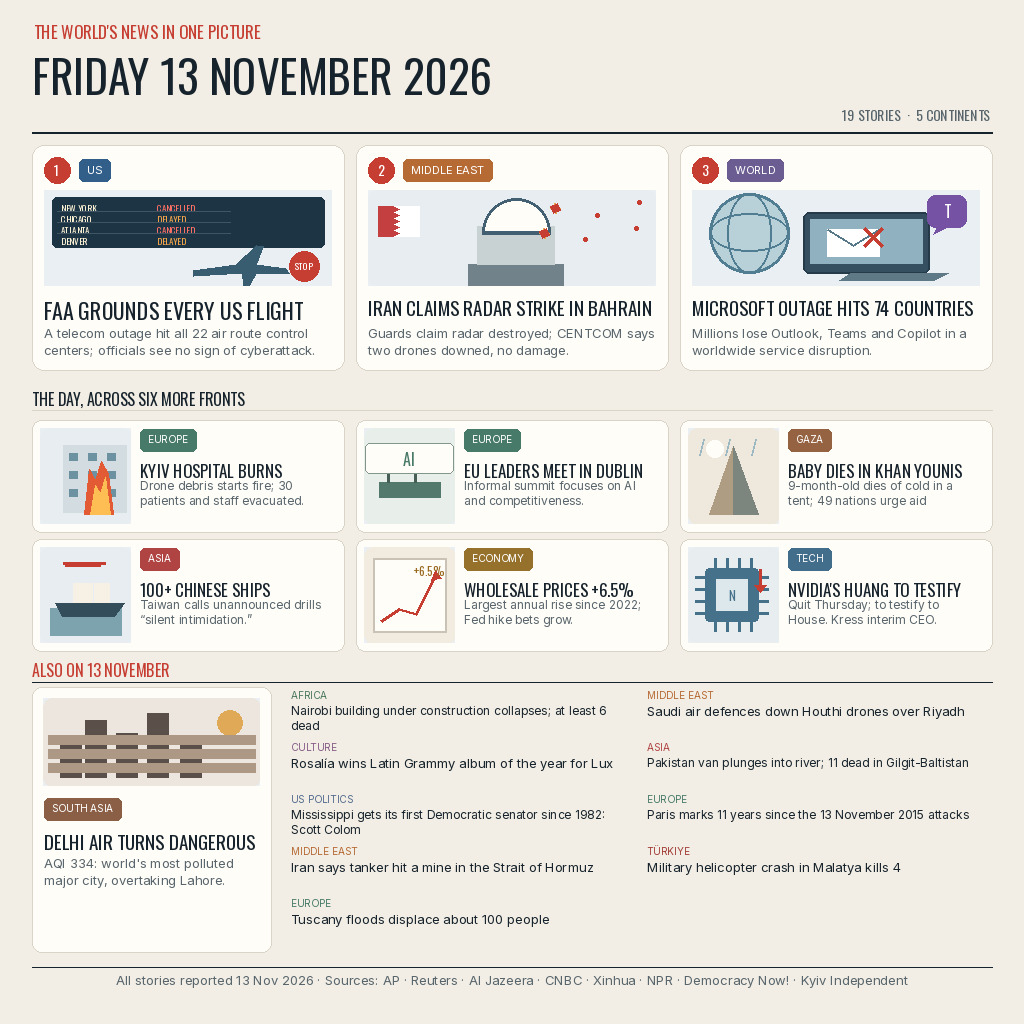
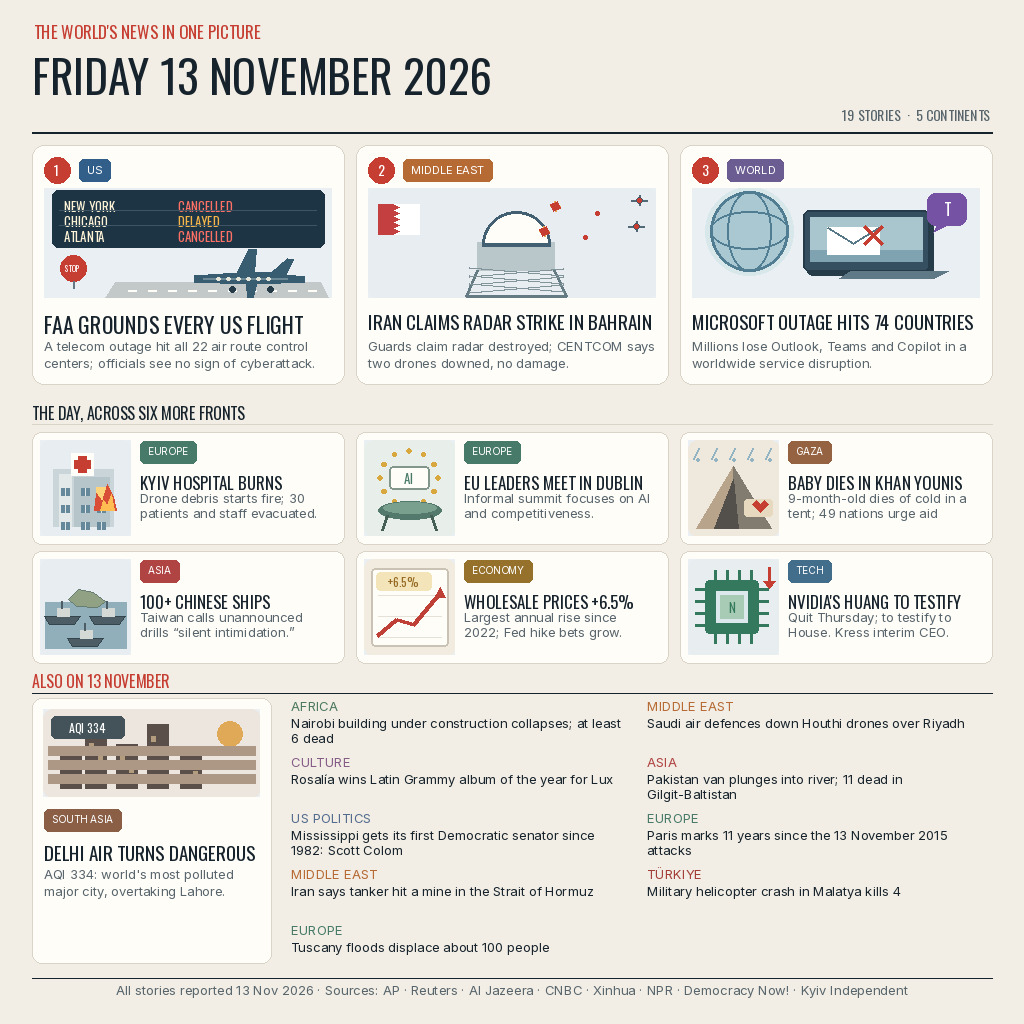
Richer illustrations and cleaner brief

diff --git a/draw_news.py b/draw_news.py
@@ -88,20 +88,31 @@ def _scene_art(kind, x, y, w, h):
     d.rounded_rectangle((x, y, x + w, y + h), radius=9, fill=palettes[kind])
     cx, cy = x + w // 2, y + h // 2
     if kind == "plane":
-        # Airport board with four named routes; parked aircraft and STOP marker.
-        d.rounded_rectangle((x+8,y+7,x+w-8,y+57),radius=5,fill="#1d3444")
+        # Three large airport-board rows over a detailed parked airliner and runway.
+        d.rounded_rectangle((x+8,y+2,x+w-8,y+59),radius=6,fill="#1d3444")
         rows=(("NEW YORK","CANCELLED"),("CHICAGO","DELAYED"),
-              ("ATLANTA","CANCELLED"),("DENVER","DELAYED"))
+              ("ATLANTA","CANCELLED"))
         for i,(city,status) in enumerate(rows):
-            yy=y+11+i*11
-            txt(city,x+17,yy,9,"#fff4d7",True)
-            txt(status,x+113,yy,9,"#f4a54a" if status=="DELAYED" else "#ff7165",True)
-            if i<3:
-                d.line((x+13,yy+10,x+186,yy+10),fill="#405564",width=1)
-        px=x+w-91; py=y+75
-        d.polygon([(px-48,py+5),(px-5,py-1),(px+15,py-20),(px+22,py-19),(px+15,py-1),(px+44,py+3),(px+48,py+8),(px+15,py+8),(px+8,py+20),(px+2,py+20),(px+1,py+8),(px-48,py+11)],fill="#385c70")
-        d.ellipse((x+w-43,y+h-35,x+w-13,y+h-5),fill=RED)
-        txt("STOP",x+w-28,y+h-20,9,"white",True,"mm")
+            yy=y+8+i*15
+            txt(city,x+20,yy,13,"#fff4d7",True)
+            txt(status,x+134,yy,13,"#f4b54a" if status=="DELAYED" else "#ff7165",True)
+            if i<len(rows)-1:
+                d.line((x+15,yy+14,x+w-16,yy+14),fill="#405564",width=1)
+        # Runway with dashed centreline; broad swept wings, fuselage, tail and windows.
+        ry=y+h-12
+        d.polygon([(x+71,ry-4),(x+w-12,ry-4),(x+w-3,ry+13),(x+60,ry+13)],fill="#c2c9c8")
+        for dash in range(x+84,x+w-18,20):
+            d.line((dash,ry+4,dash+8,ry+4),fill="#fffdf8",width=2)
+        px=x+w-87; py=y+h-19
+        d.polygon([(px-51,py-4),(px-8,py-7),(px+3,py-30),(px+11,py-30),(px+9,py-7),(px+26,py-7),(px+42,py-21),(px+48,py-20),(px+41,py-5),(px+59,py-3),(px+59,py+3),(px+11,py+5),(px+8,py+18),(px+2,py+18),(px+1,py+5),(px-51,py+3)],fill="#385c70")
+        d.line((px-42,py-1,px+42,py-1),fill="#6e8996",width=2)
+        for wx in range(px-29,px+27,10):
+            d.ellipse((wx,py-2,wx+4,py+1),fill="#e6e5d9")
+        d.ellipse((px-16,py+7,px-10,py+13),fill="#263b48")
+        d.ellipse((px+22,py+7,px+28,py+13),fill="#263b48")
+        d.ellipse((x+16,y+h-43,x+42,y+h-17),fill=RED)
+        d.line((x+29,y+h-17,x+29,ry+2),fill="#667883",width=2)
+        txt("STOP",x+29,y+h-30,8,"white",True,"mm")
     elif kind == "radar":
         # Bahrain flag, raised radar dome, and two intercepted drone paths.
         fx,fy=x+10,y+16
@@ -109,13 +120,23 @@ def _scene_art(kind, x, y, w, h):
         d.rectangle((fx+15,fy,fx+41,fy+30),fill="white")
         for yy in range(fy,fy+30,6):
             d.polygon([(fx+15,yy),(fx+21,yy+3),(fx+15,yy+6)],fill="#c43f40")
-        bx,by=cx+4,y+h-17
-        d.rectangle((bx-48,by-5,bx+47,by+16),fill="#72828a")
-        d.rectangle((bx-39,by-43,bx+38,by-5),fill="#c9d2d3")
-        d.pieslice((bx-34,by-71,bx+34,by-2),180,360,fill="#fffdf8",outline="#426071",width=3)
+        bx,by=cx+4,y+h-23
+        # Elevated lattice tower and crisp white radome.
+        d.rectangle((bx-39,by-33,bx+38,by-5),fill="#bac7ca")
+        d.pieslice((bx-34,by-64,bx+34,by+3),180,360,fill="#fffdf8",outline="#426071",width=3)
+        d.line((bx-39,by-5,bx-50,by+21),fill="#657b84",width=3)
+        d.line((bx+38,by-5,bx+50,by+21),fill="#657b84",width=3)
+        d.line((bx-50,by+21,bx+50,by+21),fill="#657b84",width=3)
+        for yy in (by+1,by+9,by+17):
+            d.line((bx-47,yy,bx+47,yy-8),fill="#81949a",width=2)
+            d.line((bx+47,yy,bx-47,yy-8),fill="#81949a",width=2)
         # Dotted trails terminate at small burst marks above the radar.
         for points in (((x+w-17,y+12),(x+w-59,y+25),(x+w-101,y+18)),
                        ((x+w-20,y+38),(x+w-71,y+49),(x+w-112,y+43))):
+            dx0,dy0=points[0]
+            d.line((dx0-8,dy0,dx0+8,dy0),fill="#526977",width=2)
+            d.line((dx0,dy0-5,dx0,dy0+5),fill="#526977",width=2)
+            d.ellipse((dx0-3,dy0-3,dx0+3,dy0+3),fill="#405968")
             for ax,ay in points:
                 d.ellipse((ax-2,ay-2,ax+2,ay+2),fill=RED)
             ex,ey=points[-1]
@@ -125,14 +146,17 @@ def _scene_art(kind, x, y, w, h):
     elif kind == "cloud":
         # Globe behind a laptop; screen shows mail failure and a Teams-like bubble.
         gx,gy=x+57,y+42
-        d.ellipse((gx-40,gy-39,gx+40,gy+41),fill="#b8d0d7",outline="#507d91",width=3)
+        d.ellipse((gx-44,gy-43,gx+44,gy+45),fill="#d8e7e9")
+        d.ellipse((gx-39,gy-39,gx+39,gy+41),fill="#a9c8d1",outline="#507d91",width=3)
         d.arc((gx-22,gy-39,gx+22,gy+41),90,270,fill="#507d91",width=2)
         d.arc((gx-22,gy-39,gx+22,gy+41),270,90,fill="#507d91",width=2)
         d.arc((gx-39,gy-19,gx+39,gy+19),180,360,fill="#507d91",width=2)
         d.arc((gx-39,gy-19,gx+39,gy+19),0,180,fill="#507d91",width=2)
         lx,ly=x+111,y+22
+        d.rounded_rectangle((lx+3,ly+4,lx+130,ly+65),radius=7,fill="#263c49")
         d.rounded_rectangle((lx,ly,lx+126,ly+61),radius=6,fill="#354f60",outline="#253b49",width=2)
-        d.rectangle((lx+7,ly+7,lx+119,ly+51),fill="#90b2c0")
+        d.rectangle((lx+7,ly+7,lx+119,ly+51),fill="#a9c6cf")
+        d.rectangle((lx+7,ly+40,lx+119,ly+51),fill="#7fa3b1")
         d.rectangle((lx+24,ly+17,lx+76,ly+44),fill="white")
         d.line((lx+24,ly+17,lx+50,ly+33,lx+76,ly+17),fill="#567788",width=2)
         d.line((lx+61,ly+16,lx+79,ly+34),fill=RED,width=5)
@@ -142,62 +166,89 @@ def _scene_art(kind, x, y, w, h):
         d.polygon([(x+w-42,y+35),(x+w-47,y+44),(x+w-31,y+36)],fill="#7652a5")
         txt("T",x+w-33,y+20,16,"white",True,"mm")
     elif kind == "fire":
-        # Hospital facade with orange fire glow.
-        bx=x+16
-        d.rectangle((bx+7,y+17,bx+70,y+h-12),fill="#d3dce0")
-        for yy in (y+25,y+43,y+61):
-            for xx in (bx+13,bx+32,bx+51):
-                d.rectangle((xx,yy,xx+8,yy+7),fill="#6c91a1")
-        d.rectangle((bx+31,y+56,bx+43,y+77),fill="#f5f0e5")
-        # Flame cluster is intentionally kept inside the right half of the tile.
-        fx=x+w-28
-        d.polygon([(fx-19,y+h-10),(fx-14,y+41),(fx-8,y+52),(fx-2,y+33),(fx+5,y+45),(fx+10,y+h-10)],fill="#e35b35")
-        d.polygon([(fx-13,y+h-10),(fx-8,y+57),(fx-3,y+65),(fx+2,y+49),(fx+7,y+h-10)],fill="#ffbe54")
+        # Three-tone hospital block, red cross, and fire through an upper window.
+        d.rectangle((x+13,y+29,x+73,y+h-10),fill="#cad5d9")
+        d.rectangle((x+19,y+34,x+31,y+h-10),fill="#e3e9e8")
+        d.rectangle((x+34,y+37,x+69,y+h-10),fill="#b6c5ca")
+        for yy in (y+48,y+65,y+82):
+            for xx in (x+21,x+41,x+57):
+                d.rectangle((xx,yy,xx+8,yy+7),fill="#65889a")
+                d.line((xx+4,yy,xx+4,yy+7),fill="#dce6e7",width=1)
+        d.rectangle((x+31,y+13,x+53,y+35),fill="#fffdf8")
+        d.rectangle((x+38,y+16,x+46,y+32),fill=RED)
+        d.rectangle((x+34,y+20,x+50,y+28),fill=RED)
+        # A bright window and a contained pair of flame tongues.
+        d.rectangle((x+56,y+47,x+69,y+62),fill="#ffd37a")
+        fx=x+67
+        d.polygon([(fx-13,y+70),(fx-11,y+53),(fx-5,y+61),(fx,y+44),(fx+6,y+56),(fx+9,y+70)],fill="#d94e36")
+        d.polygon([(fx-7,y+70),(fx-4,y+60),(fx,y+65),(fx+4,y+54),(fx+7,y+70)],fill="#ffbd52")
     elif kind == "summit":
-        d.rectangle((x+15,y+54,x+w-15,y+69),fill="#53796c")
-        for xx in range(x+24,x+w-20,27):
-            d.line((xx,y+35,xx,y+54),fill="#455e56",width=3)
-            d.ellipse((xx-7,y+23,xx+7,y+37),fill="#455e56")
-        d.rounded_rectangle((cx-44,y+15,cx+44,y+45),radius=5,fill="#fffdf8",outline="#82968c")
-        txt("AI",cx,y+30,16,"#477a68",True,"mm")
+        # Twelve gold stars encircle an AI placard above a round summit table.
+        sx,sy=cx,y+38
+        for n in range(12):
+            import math
+            a=math.radians(n*30-90)
+            px=sx+math.cos(a)*29; py=sy+math.sin(a)*27
+            d.ellipse((px-2.2,py-2.2,px+2.2,py+2.2),fill="#d8a73e")
+        d.rounded_rectangle((cx-20,y+26,cx+20,y+49),radius=4,fill="#fffdf8",outline="#82968c",width=2)
+        txt("AI",cx,y+38,13,"#477a68",True,"mm")
+        d.ellipse((x+14,y+61,x+w-14,y+79),fill="#53796c")
+        d.ellipse((x+19,y+62,x+w-19,y+73),fill="#79a08e")
+        d.line((cx-22,y+75,cx-27,y+90),fill="#455e56",width=3)
+        d.line((cx+22,y+75,cx+27,y+90),fill="#455e56",width=3)
     elif kind == "tent":
-        for xx in range(x+15,x+w-15,26):
-            d.line((xx,y+11,xx-4,y+27),fill="#9bb8c3",width=2)
-        d.polygon([(x+21,y+h-10),(cx,y+18),(x+w-21,y+h-10)],fill="#ae9d83")
-        d.polygon([(cx,y+18),(cx,y+h-10),(x+w-21,y+h-10)],fill="#7d867e")
-        d.ellipse((x+18,y+12,x+35,y+29),fill="#fffdf8")
+        # Rainy shelter, open flap and a small heart-marked baby blanket.
+        for xx in range(x+10,x+w-8,18):
+            d.line((xx,y+8,xx-5,y+19),fill="#92b3c1",width=2)
+            d.ellipse((xx-2,y+18,xx+1,y+21),fill="#92b3c1")
+        d.polygon([(x+8,y+h-8),(cx,y+26),(x+w-8,y+h-8)],fill="#b7a48a")
+        d.polygon([(cx,y+26),(cx,y+h-8),(x+w-8,y+h-8)],fill="#827c70")
+        d.polygon([(cx,y+39),(cx-19,y+h-8),(cx+5,y+h-8)],fill="#534f4a")
+        d.rounded_rectangle((cx+11,y+59,cx+39,y+76),radius=3,fill="#e7d9bf")
+        d.polygon([(cx+19,y+64),(cx+23,y+60),(cx+27,y+64),(cx+31,y+60),(cx+35,y+64),(cx+27,y+72)],fill=RED)
     elif kind == "ships":
-        d.rectangle((x+10,cy+13,x+w-10,y+h-8),fill="#7da3af")
-        for xx in (x+39,cx+15,x+w-48):
-            d.polygon([(xx-24,cy+8),(xx+24,cy+8),(xx+14,cy+21),(xx-17,cy+21)],fill="#344d5a")
-            d.rectangle((xx-6,cy-12,xx+9,cy+7),fill="#f7f1e5")
-        d.line((x+25,y+18,x+60,y+18),fill=RED,width=3)
-        d.line((x+w-68,y+16,x+w-26,y+16),fill=RED,width=3)
+        d.rectangle((x+5,y+43,x+w-5,y+h-7),fill="#91afba")
+        # Island in the centre, surrounded by three grey patrol ships.
+        d.polygon([(cx-17,y+40),(cx-7,y+30),(cx+8,y+33),(cx+20,y+42),(cx+12,y+48),(cx-9,y+47)],fill="#91a184",outline="#677d72")
+        for xx,yy,scale in ((x+22,y+57,0),(x+w-24,y+57,0),(cx,y+79,1)):
+            hull=[(xx-18,yy),(xx+18,yy),(xx+12,yy+8),(xx-13,yy+8)]
+            d.polygon(hull,fill="#4d5d65",outline="#35454d")
+            d.rectangle((xx-5,yy-8,xx+7,yy),fill="#d5d9d6")
+            d.line((xx,yy-8,xx,yy-15),fill="#4d5d65",width=2)
     elif kind == "chart":
-        d.rectangle((x+9,y+11,x+w-9,y+h-11),fill="#fffdf8",outline="#c9c2b5",width=2)
-        d.line((x+17,y+h-22,x+35,y+h-34,x+52,y+h-29,x+71,y+28),fill=RED,width=3)
-        d.polygon([(x+67,y+33),(x+71,y+23),(x+77,y+31)],fill=RED)
-        txt("+6.5%",x+w-11,y+14,12,"#9a6a21",True,"ra")
+        d.rounded_rectangle((x+7,y+9,x+w-7,y+h-9),radius=4,fill="#fffdf8",outline="#c9c2b5",width=2)
+        for yy in (y+36,y+57,y+78):
+            d.line((x+14,yy,x+w-14,yy),fill="#e5e1d8",width=1)
+        d.line((x+13,y+h-20,x+32,y+h-36,x+50,y+h-31,x+76,y+34),fill="#bf4037",width=4)
+        d.polygon([(x+70,y+39),(x+76,y+28),(x+81,y+38)],fill="#bf4037")
+        d.rounded_rectangle((x+12,y+13,x+67,y+31),radius=4,fill="#f3e4b9")
+        txt("+6.5%",x+39,y+22,12,"#946820",True,"mm")
     elif kind == "chip":
         # Recognisable square package with pins and a separate falling indicator.
-        d.rounded_rectangle((cx-28,cy-27,cx+25,cy+26),radius=4,fill="#45718a")
+        d.rounded_rectangle((cx-28,cy-27,cx+25,cy+26),radius=4,fill="#34795d")
         d.rectangle((cx-17,cy-16,cx+14,cy+15),fill="#dce8eb")
-        txt("N",cx-1,cy,13,"#45718a",True,"mm")
+        d.rectangle((cx-13,cy-12,cx+10,cy+11),fill="#a7cbb4")
+        txt("N",cx-1,cy,13,"#34795d",True,"mm")
         for p in (-18,-6,6,18):
-            d.line((cx-38,cy+p,cx-28,cy+p),fill="#45718a",width=3)
-            d.line((cx+25,cy+p,cx+35,cy+p),fill="#45718a",width=3)
+            d.line((cx-38,cy+p,cx-28,cy+p),fill="#34795d",width=3)
+            d.line((cx+25,cy+p,cx+35,cy+p),fill="#34795d",width=3)
         for p in (-18,-6,6,18):
-            d.line((cx+p,cy-37,cx+p,cy-27),fill="#45718a",width=3)
-            d.line((cx+p,cy+26,cx+p,cy+36),fill="#45718a",width=3)
-        ax,ay=x+w-19,y+22
-        d.line((ax,ay,ax,ay+22),fill=RED,width=3)
-        d.polygon([(ax-6,ay+16),(ax+6,ay+16),(ax,ay+23)],fill=RED)
+            d.line((cx+p,cy-37,cx+p,cy-27),fill="#34795d",width=3)
+            d.line((cx+p,cy+26,cx+p,cy+36),fill="#34795d",width=3)
+        ax,ay=x+w-10,y+8
+        d.line((ax,ay,ax,ay+20),fill=RED,width=3)
+        d.polygon([(ax-6,ay+14),(ax+6,ay+14),(ax,ay+21)],fill=RED)
     elif kind == "smog":
         d.ellipse((x+w-43,y+12,x+w-18,y+37),fill="#dfa957")
         for xx, hh in ((x+17,37),(x+42,57),(x+73,44),(x+104,64),(x+137,40)):
             d.rectangle((xx,y+h-9-hh,xx+21,y+h-9),fill="#5a5049")
+            d.rectangle((xx+4,y+h-9-hh+12,xx+8,y+h-9-hh+17),fill="#b49c7e")
+            d.rectangle((xx+13,y+h-9-hh+23,xx+17,y+h-9-hh+28),fill="#b49c7e")
         for yy in (y+37,y+51,y+65):
             d.rectangle((x+5,yy,x+w-5,yy+9),fill="#ac9884")
+        if w>100:
+            d.rounded_rectangle((x+8,y+7,x+81,y+29),radius=5,fill="#44535a")
+            txt("AQI 334",x+44,y+18,12,"white",True,"mm")
 
 
 def lead(x, y, w, h, number, region, headline, dek, kind):
@@ -205,12 +256,12 @@ def lead(x, y, w, h, number, region, headline, dek, kind):
     d.ellipse((x+12,y+12,x+38,y+38),fill=RED)
     txt(str(number),x+25,y+25,14,"white",True,"mm")
     tag(region,x+47,y+14,REGION[region],11)
-    scene(kind,x+12,y+45,w-24,96)
+    scene(kind,x+12,y+43,w-24,110)
     f=fit(headline,FONT_HEAD,22,17,w-24)
-    d.text((x+12,y+148),headline,font=f,fill=INK)
+    d.text((x+12,y+162),headline,font=f,fill=INK)
     df=F(FONT_BODY,13)
     lines=wrap(dek,df,w-24)
-    yy=y+180
+    yy=y+193
     for ln in lines[:2]:
         d.text((x+12,yy),ln,font=df,fill=MUTED)
         yy+=17
@@ -222,7 +273,7 @@ def mini(x,y,w,h,region,headline,dek,kind):
     tag(region,x+108,y+9,REGION[region],10)
     f=fit(headline,FONT_HEAD,17,13,w-124)
     d.text((x+108,y+37),headline,font=f,fill=INK)
-    df=F(FONT_BODY,12)
+    df=F(FONT_BODY,13)
     lines=wrap(dek,df,w-124)
     yy=y+58
     max_lines=max(1,(h-62)//15)
@@ -240,7 +291,7 @@ txt("19 STORIES  ·  5 CONTINENTS",990,104,14,MUTED,True,"ra")
 d.line((32,132,992,132),fill=INK,width=2)
 
 g=12
-lead_y, lead_h = 145, 225
+lead_y, lead_h = 145, 239
 lead_w=(960-2*g)//3
 lead(32,lead_y,lead_w,lead_h,1,"US","FAA GROUNDS EVERY US FLIGHT",
      "A telecom outage hit all 22 air route control centers; officials see no sign of cyberattack.","plane")
@@ -250,8 +301,8 @@ lead(32+2*(lead_w+g),lead_y,lead_w,lead_h,3,"WORLD","MICROSOFT OUTAGE HITS 74 CO
      "Millions lose Outlook, Teams and Copilot in a worldwide service disruption.","cloud")
 
 # Six compact reports: two rows, consistent icon and text columns.
-txt("THE DAY, ACROSS SIX MORE FRONTS",32,386,16,INK,True)
-d.line((32,410,992,410),fill=RULE,width=1)
+txt("THE DAY, ACROSS SIX MORE FRONTS",32,400,16,INK,True)
+d.line((32,424,992,424),fill=RULE,width=1)
 mini_w=(960-g*2)//3
 mini_h=112
 items=[
@@ -264,20 +315,20 @@ items=[
 ]
 for i,(r,h,dek,k) in enumerate(items):
     col=i%3; row=i//3
-    mini(32+col*(mini_w+g),420+row*(mini_h+7),mini_w,mini_h,r,h,dek,k)
+    mini(32+col*(mini_w+g),432+row*(mini_h+7),mini_w,mini_h,r,h,dek,k)
 
 # South Asia gets a final compact visual alongside the same-day wire list.
-txt("ALSO ON 13 NOVEMBER",32,657,16,RED,True)
-d.line((32,682,992,682),fill=INK,width=1)
-card((32,687,271,952),10)
-scene("smog",43,698,217,88)
-tag("SOUTH ASIA",44,798,REGION["SOUTH ASIA"],10)
+txt("ALSO ON 13 NOVEMBER",32,668,16,RED,True)
+d.line((32,693,992,693),fill=INK,width=1)
+card((32,698,271,963),10)
+scene("smog",43,709,217,88)
+tag("SOUTH ASIA",44,809,REGION["SOUTH ASIA"],10)
 f=fit("DELHI AIR TURNS DANGEROUS",FONT_HEAD,19,15,215)
-d.text((44,827),"DELHI AIR TURNS DANGEROUS",font=f,fill=INK)
+d.text((44,838),"DELHI AIR TURNS DANGEROUS",font=f,fill=INK)
 small_dek="AQI 334: world's most polluted major city, overtaking Lahore."
 df=F(FONT_BODY,13)
 for i,ln in enumerate(wrap(small_dek,df,211)[:3]):
-    d.text((44,855+i*17),ln,font=df,fill=MUTED)
+    d.text((44,866+i*17),ln,font=df,fill=MUTED)
 
 also=[
     ("AFRICA","Nairobi building under construction collapses; at least 6 dead"),
@@ -293,17 +344,17 @@ also=[
 colx=(291,647)
 for i,(region,story) in enumerate(also):
     col=i//5; row=i%5
-    x=colx[col]; y=689+row*52
+    x=colx[col]; y=698+row*56
     # A compact colored region label reserves the same first line on every row.
-    d.text((x,y),region,font=F(FONT_BODY,10),fill=REGION[region])
-    f=fit(story,FONT_BODY,13,12,337)
+    d.text((x,y),region,font=F(FONT_BODY,13),fill=REGION[region])
+    f=fit(story,FONT_BODY,13,13,337)
     lines=wrap(story,f,337)
     for j,ln in enumerate(lines[:2]):
-        d.text((x,y+14+j*15),ln,font=f,fill=INK)
+        d.text((x,y+17+j*15),ln,font=f,fill=INK)
 
-d.line((32,967,992,967),fill=INK,width=1)
+d.line((32,978,992,978),fill=INK,width=1)
 footer="All stories reported 13 Nov 2026 · Sources: AP · Reuters · Al Jazeera · CNBC · Xinhua · NPR · Democracy Now! · Kyiv Independent"
 ff=fit(footer,FONT_BODY,13,12,960)
-d.text((512,976),footer,font=ff,fill=MUTED,anchor="mt")
+d.text((512,986),footer,font=ff,fill=MUTED,anchor="mt")
 
 im.save(ROOT / "entry.png", "JPEG", quality=92, optimize=True, progressive=False, subsampling=0)
